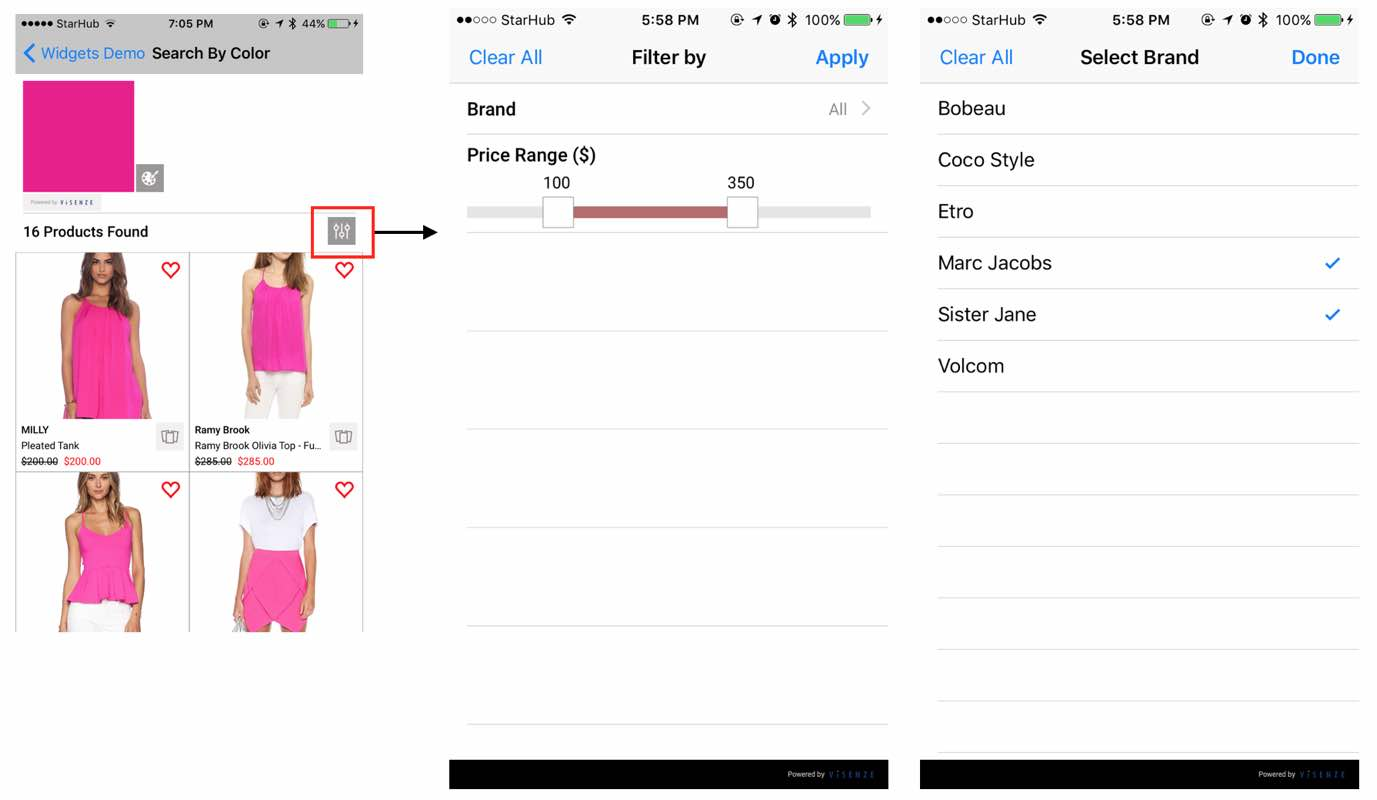
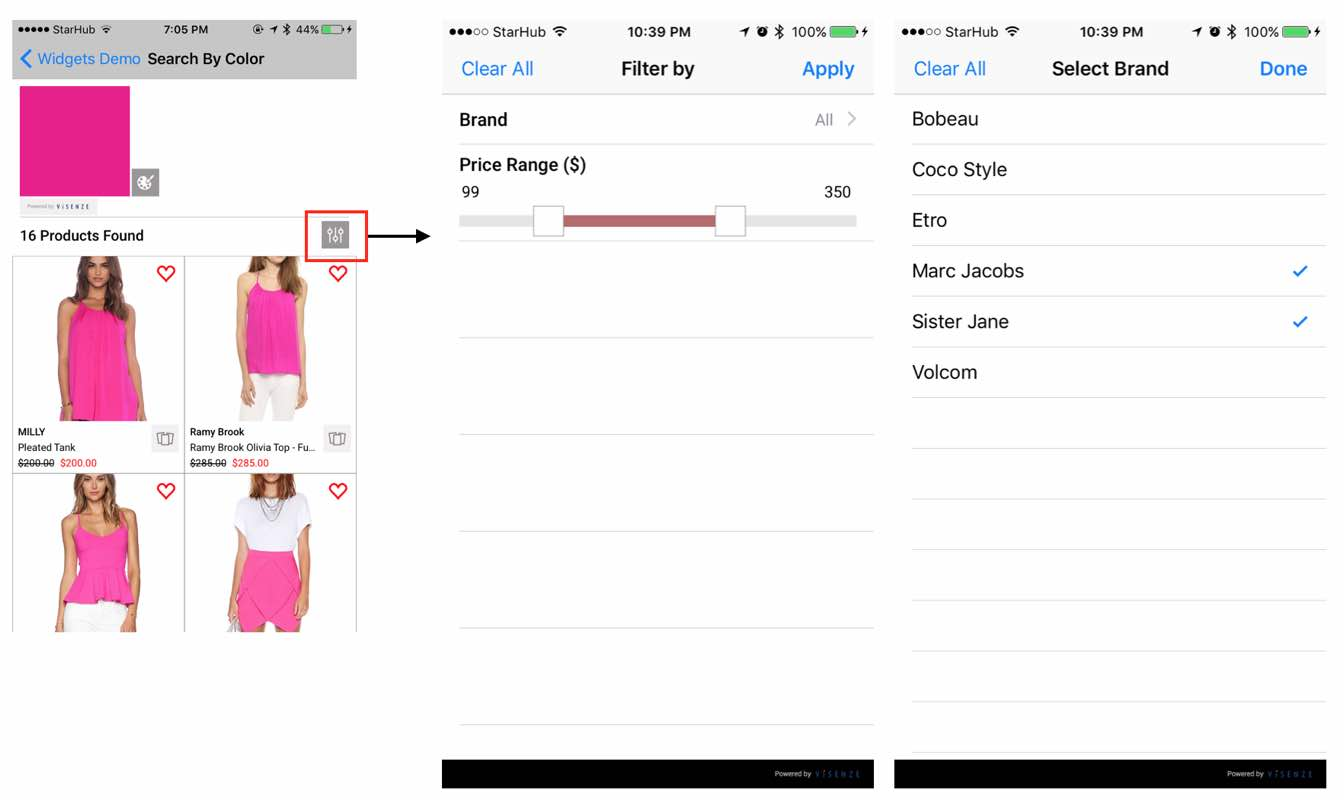
update demos with orientation changes examples

diff --git a/WidgetsExample/WidgetsExample/YouMayLikeViewController.swift b/WidgetsExample/WidgetsExample/YouMayLikeViewController.swift
@@ -33,18 +33,9 @@ class YouMayLikeViewController: UIViewController, ViSearchViewControllerDelegate
                     self.controller = controller
                     controller.delegate = self
                     
-                    let containerWidth = self.view.bounds.width
-                    
-                    // this will let 2.5 images appear on screen
-                    let imageWidth = controller.estimateItemWidth(2.5, containerWidth: containerWidth)
-                    let imageHeight = min(imageWidth * 1.2, 140 )
-                    
-                    // configure product image size
-                    controller.imageConfig.size = CGSize(width: imageWidth, height: imageHeight )
                     controller.imageConfig.contentMode = .scaleAspectFill
                     
                     // configure search parameter
-                    
                     controller.searchParams = ViSearchParams(imName: im_name)
                     controller.searchParams?.limit = 16
                     
@@ -66,11 +57,8 @@ class YouMayLikeViewController: UIViewController, ViSearchViewControllerDelegate
         //            controller.backgroundColor = UIColor.black
                     controller.paddingLeft = 8.0
                     
-                    // IMPORTANT: this must be called last after schema mapping as we calculate the item size based on whether a field is available
-                    // e.g. if label is nil in the mapping, then it will not be included in the height calculation of product card
-                    controller.itemSize = controller.estimateItemSize()
-                    
-                    containerHeightConstraint.constant = controller.itemSize.height + 70
+                    // configure product image size and item size
+                    self.configureSize(controller: controller)
                     
                     controller.refreshData()
                 }
@@ -103,11 +91,13 @@ class YouMayLikeViewController: UIViewController, ViSearchViewControllerDelegate
         if sender is ViRecommendationViewController {
             controller.itemSpacing = 0
             controller.rowSpacing = 0
-            controller.setItemWidth(numOfColumns: 2, containerWidth: self.view.bounds.width)
             controller.productCardBorderWidth = 0.7
             controller.productCardBorderColor = UIColor.lightGray
 
+            self.configureSimilarSize(controller: controller)
+            
             controller.filterItems = AppDelegate.loadFilterItemsFromPlist()
+            controller.delegate = self
         }
         
     }
@@ -124,15 +114,17 @@ class YouMayLikeViewController: UIViewController, ViSearchViewControllerDelegate
         }
     }
     
-    override public func viewWillTransition(to size: CGSize, with coordinator: UIViewControllerTransitionCoordinator) {
-        super.viewWillTransition(to: size, with: coordinator)
-    
+    // configular the similar controller after clicking on find similar button
+    func controllerWillTransition(controller: UIViewController , to size: CGSize, with coordinator: UIViewControllerTransitionCoordinator) {
+        
         coordinator.animate(alongsideTransition: { context in
-            if let controller = self.controller {
-                let curSize = controller.imageConfig.size
-                controller.imageConfig.size = CGSize(width: curSize.width, height: min(curSize.height , 150) )
-                controller.itemSize = controller.estimateItemSize()
-                self.containerHeightConstraint.constant = controller.itemSize.height + 70
+            // during rotate
+            if controller is ViGridSearchViewController {
+                self.configureSimilarSize(controller: controller as! ViGridSearchViewController)
+                (controller as? ViGridSearchViewController)?.collectionView?.reloadData()
+            }
+            else if controller is ViRecommendationViewController {
+                
             }
             
         }, completion: { context in
@@ -140,9 +132,51 @@ class YouMayLikeViewController: UIViewController, ViSearchViewControllerDelegate
             // after rotate
             
         })
-
-        
         
     }
+    
+    //MARK: size configuration
+    public func configureSize(controller: ViRecommendationViewController) {
+        let isPortrait = UIApplication.shared.statusBarOrientation.isPortrait
+        let containerWidth = self.view.bounds.width
+        
+        // this will let 2.5 images appear on screen for portrait and 4.5 for landscape
+        let imageWidth = controller.estimateItemWidth(isPortrait ? 2.5 : 4.5, containerWidth: containerWidth)
+        let imageHeight = min(imageWidth * 1.2, 140 )
+        
+        // configure product image size
+        controller.imageConfig.size = CGSize(width: imageWidth, height: imageHeight )
+        
+        // IMPORTANT: this must be called last after schema mapping as we calculate the item size based on whether a field is available
+        // e.g. if label is nil in the mapping, then it will not be included in the height calculation of product card
+        controller.itemSize = controller.estimateItemSize()
+        
+        self.containerHeightConstraint.constant = controller.itemSize.height + 70
+    }
+    
+    // configure similar controller size during different orientation i.e. when user clicks on Find Similar button
+    public func configureSimilarSize(controller: ViGridSearchViewController) {
+        let isPortrait = UIApplication.shared.statusBarOrientation.isPortrait
+        let numOfColumns = isPortrait ? 2 : 4
+        let containerWidth = UIScreen.main.bounds.size.width
+        
+        let imageWidth = isPortrait ? (UIScreen.main.bounds.size.width / 2.5) : (UIScreen.main.bounds.size.width / 4.5)
+        let imageHeight = imageWidth * 1.2
+        
+        controller.imageConfig.size = CGSize(width: imageWidth, height: imageHeight )
+        controller.itemSpacing = 0
+        controller.rowSpacing = 0
+        
+        // this must be called last after setting schema mapping
+        // the item size is dynamic and depdend on schema mapping
+        // For example, if label is not provided, then the estimated height would be shorter
+        controller.itemSize = controller.estimateItemSize(numOfColumns: numOfColumns, containerWidth: containerWidth)
+        
+        // print("size: \(controller.itemSize)")
+    }
+
+
+    
+    
 
 }

diff --git a/WidgetsExample/WidgetsExample/CustomSearchBarViewController.swift b/WidgetsExample/WidgetsExample/CustomSearchBarViewController.swift
@@ -81,7 +81,6 @@ class CustomSearchBarViewController: UIViewController, ViColorPickerDelegate, UI
         //colorButton.imageEdgeInsets = UIEdgeInsetsMake( 4, 4, 4, 4)
         colorButton.tag = ViProductCardTag.colorPickBtnTag.rawValue
 
-        
         colorButton.addTarget(self, action: #selector(self.openColorPicker), for: .touchUpInside)
         colorButton.frame = CGRect(x: btnWidth + 4, y: 0, width: btnWidth, height: btnWidth)
         floatWidth = colorButton.frame.origin.x + btnWidth
@@ -149,13 +148,7 @@ class CustomSearchBarViewController: UIViewController, ViColorPickerDelegate, UI
         
         controller.filterItems = AppDelegate.loadFilterItemsFromPlist()
         
-        let containerWidth = self.view.bounds.width
         
-        let imageWidth = containerWidth / 2.5
-        let imageHeight = imageWidth * 1.2
-        
-        // configure product image size
-        controller.imageConfig.size = CGSize(width: imageWidth, height: imageHeight )
         controller.imageConfig.contentMode = .scaleAspectFill
         controller.priceConfig.isStrikeThrough = true
         
@@ -165,7 +158,8 @@ class CustomSearchBarViewController: UIViewController, ViColorPickerDelegate, UI
         controller.rowSpacing = 0
         controller.delegate = self
         
-        controller.itemSize = controller.estimateItemSize(numOfColumns: 2, containerWidth: containerWidth)
+        // configure product image size and product card size
+        self.configureSize(controller: controller)
         
         self.navigationController?.pushViewController(controller, animated: true)
         
@@ -204,20 +198,13 @@ class CustomSearchBarViewController: UIViewController, ViColorPickerDelegate, UI
             
             controller.croppingEnabled = true
             controller.allowsLibraryAccess = true
-             controller.delegate = self
+            controller.delegate = self
             
             // copy other settings
             controller.schemaMapping = AppDelegate.loadSampleSchemaMappingFromPlist()
             controller.filterItems = AppDelegate.loadFilterItemsFromPlist()
             
-            
-            let containerWidth = self!.view.bounds.width
-            
-            let imageWidth = containerWidth / 2.5
-            let imageHeight = imageWidth * 1.2
-            
             // configure product image size
-            controller.imageConfig.size = CGSize(width: imageWidth, height: imageHeight )
             controller.imageConfig.contentMode = .scaleAspectFill
             controller.priceConfig.isStrikeThrough = true
             
@@ -226,7 +213,8 @@ class CustomSearchBarViewController: UIViewController, ViColorPickerDelegate, UI
             controller.itemSpacing = 0
             controller.rowSpacing = 0
             
-            controller.itemSize = controller.estimateItemSize(numOfColumns: 2, containerWidth: containerWidth)
+            // configure product image size and product card size
+            self?.configureSize(controller: controller)
             
             // set to same delegate
             //controller.delegate = self
@@ -254,5 +242,44 @@ class CustomSearchBarViewController: UIViewController, ViColorPickerDelegate, UI
             //alert (message: "api error: \(apiErrors.joined(separator: ",") )")
         }
     }
+    
+    // update orientation
+    func controllerWillTransition(controller: UIViewController , to size: CGSize, with coordinator: UIViewControllerTransitionCoordinator) {
+        
+        coordinator.animate(alongsideTransition: { context in
+            if controller is ViGridSearchViewController {
+                self.configureSize(controller: controller as! ViGridSearchViewController)
+                (controller as? ViGridSearchViewController)?.collectionView?.reloadData()
+            }
+        }, completion: { context in
+            
+            // after rotate
+            
+        })
+        
+    }
+    
+    // MARK: controller configuration
+    
+    // configure controller size during different orientation
+    public func configureSize(controller: ViGridSearchViewController) {
+        let isPortrait = UIApplication.shared.statusBarOrientation.isPortrait
+        let numOfColumns = isPortrait ? 2 : 4
+        let containerWidth = UIScreen.main.bounds.size.width
+        
+        let imageWidth = isPortrait ? (UIScreen.main.bounds.size.width / 2.5) : (UIScreen.main.bounds.size.width / 4.5)
+        let imageHeight = imageWidth * 1.2
+        
+        controller.imageConfig.size = CGSize(width: imageWidth, height: imageHeight )
+        controller.itemSpacing = 0
+        controller.rowSpacing = 0
+        
+        // this must be called last after setting schema mapping
+        // the item size is dynamic and depdend on schema mapping
+        // For example, if label is not provided, then the estimated height would be shorter
+        controller.itemSize = controller.estimateItemSize(numOfColumns: numOfColumns, containerWidth: containerWidth)
+    }
+    
+    
 
 }

diff --git a/ViSearchWidgets/ViSearchWidgets/Views/ViRangeSlider.swift b/ViSearchWidgets/ViSearchWidgets/Views/ViRangeSlider.swift
@@ -132,6 +132,7 @@ open class ViRangeSlider: UIControl {
             return 0
         }
         
+        // minimum distance between lower thumb and upper thumb
         return 2
         
 //        return 0.5 * Double(thumbWidth) * (maximumValue - minimumValue) / Double(bounds.width)
@@ -292,7 +293,7 @@ open class ViRangeSlider: UIControl {
             deltaValue = (maximumValue - minimumValue) * deltaLocation / Double(bounds.width - bounds.height)
         }
         previouslocation = location
-                
+        
         // if both are highlighted. we need to decide which direction to drag
         if lowerThumbLayer.highlighted && upperThumbLayer.highlighted {
         

diff --git a/WidgetsExample/WidgetsExample/HomeTableTableViewController.swift b/WidgetsExample/WidgetsExample/HomeTableTableViewController.swift
@@ -12,7 +12,7 @@ import ViSearchWidgets
 
 class HomeTableTableViewController: UITableViewController , ViSearchViewControllerDelegate{
     
-    let limit = 1000
+    let limit = 16
     
     static let COLOR_SEARCH: String = "Search by Color"
     static let FIND_SIMILAR_SEARCH: String = "Find Similar"
